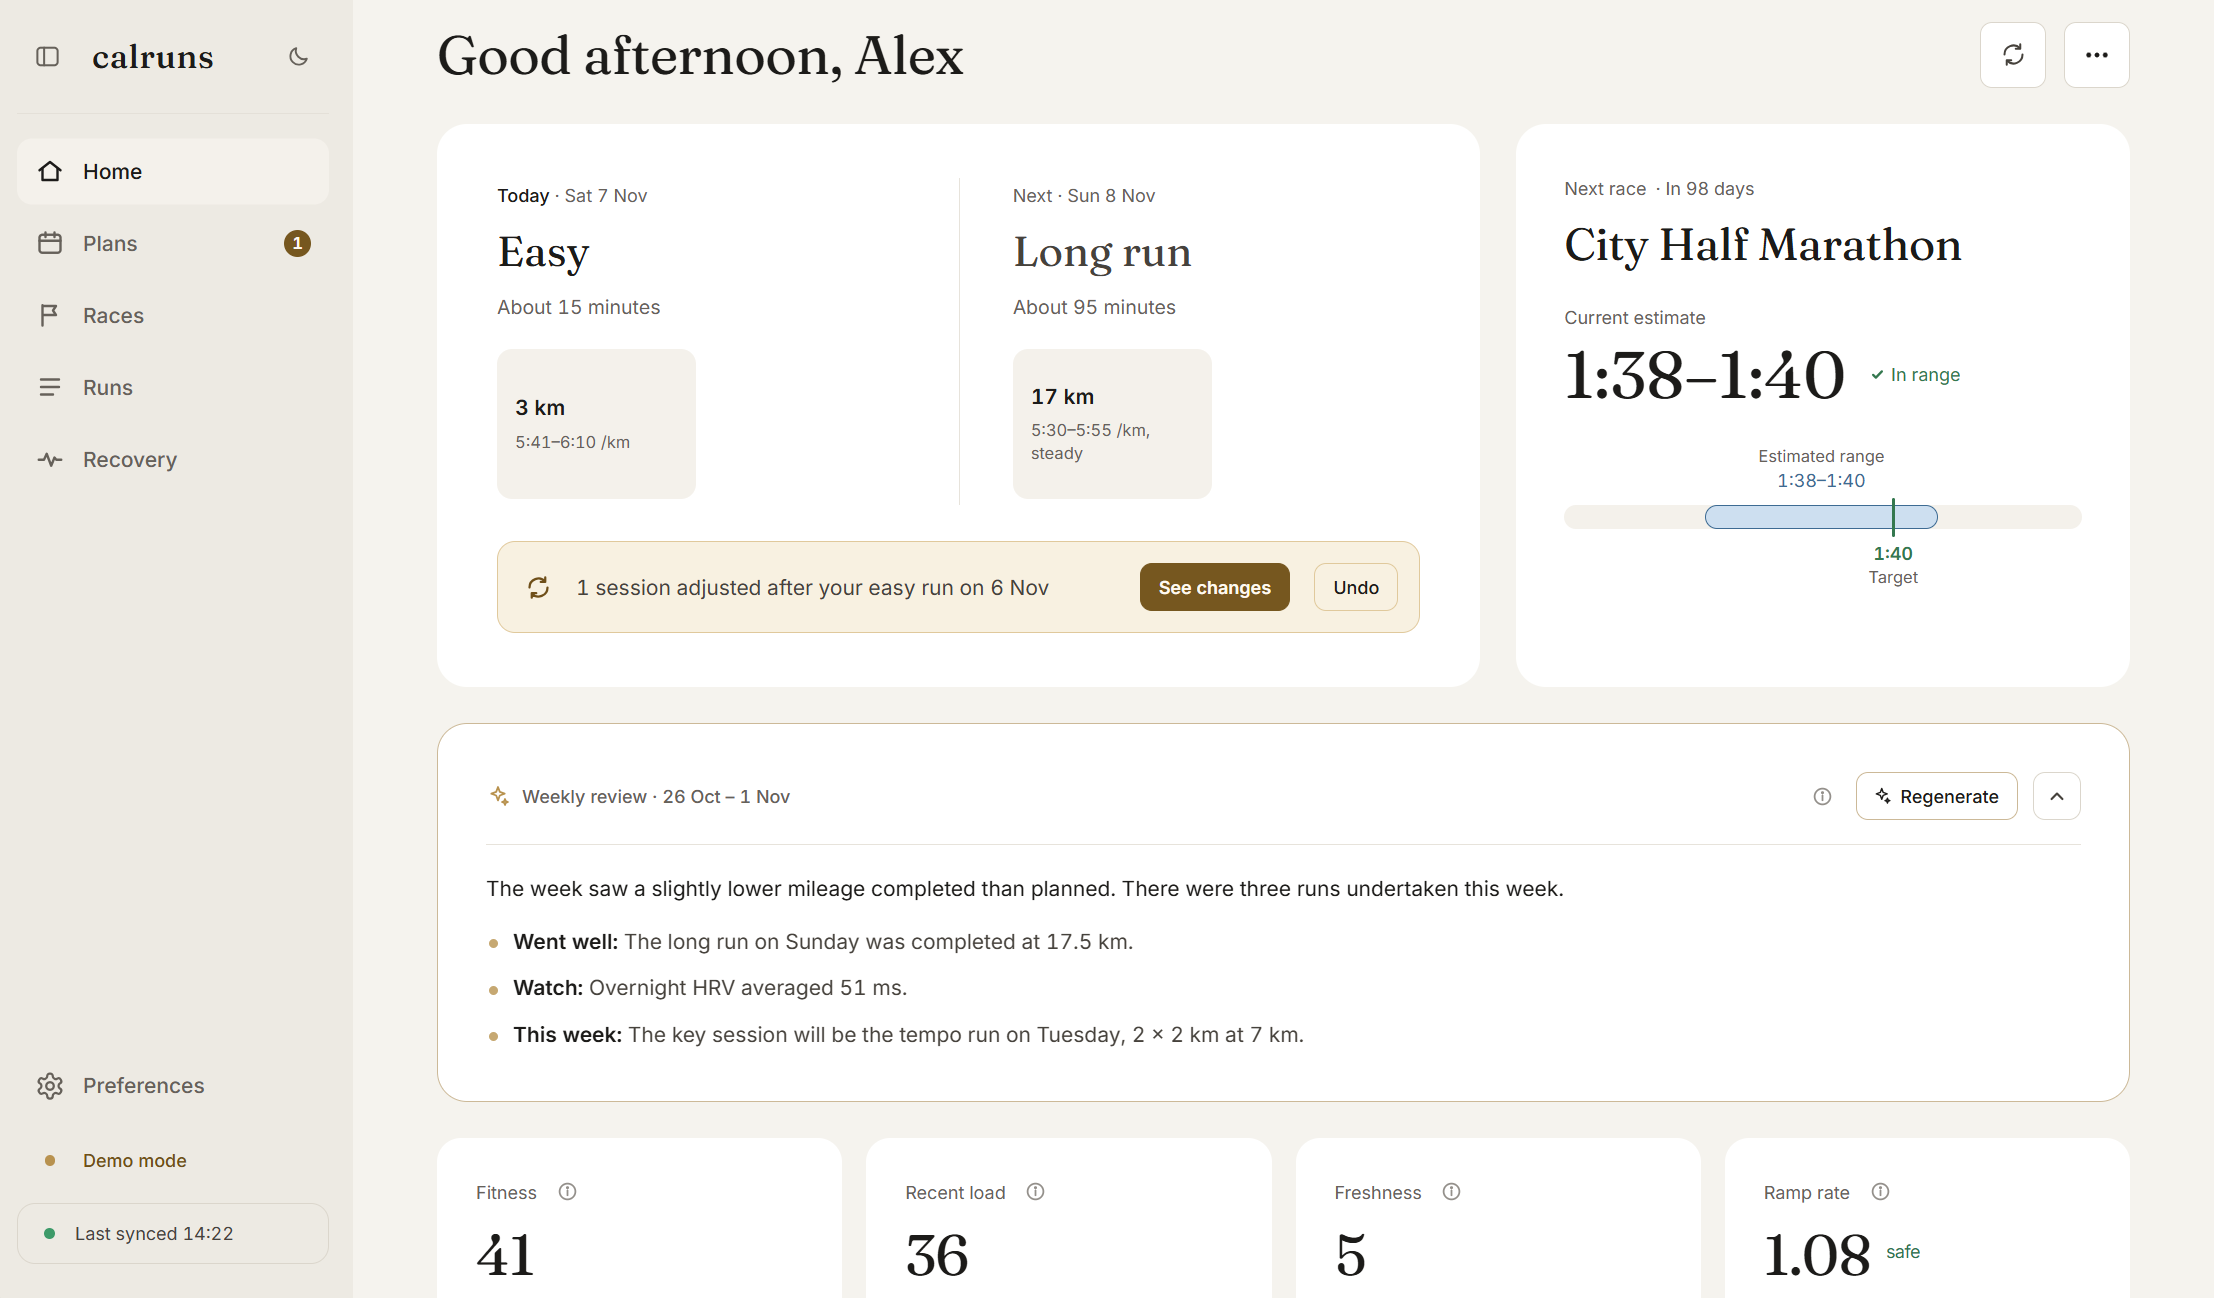
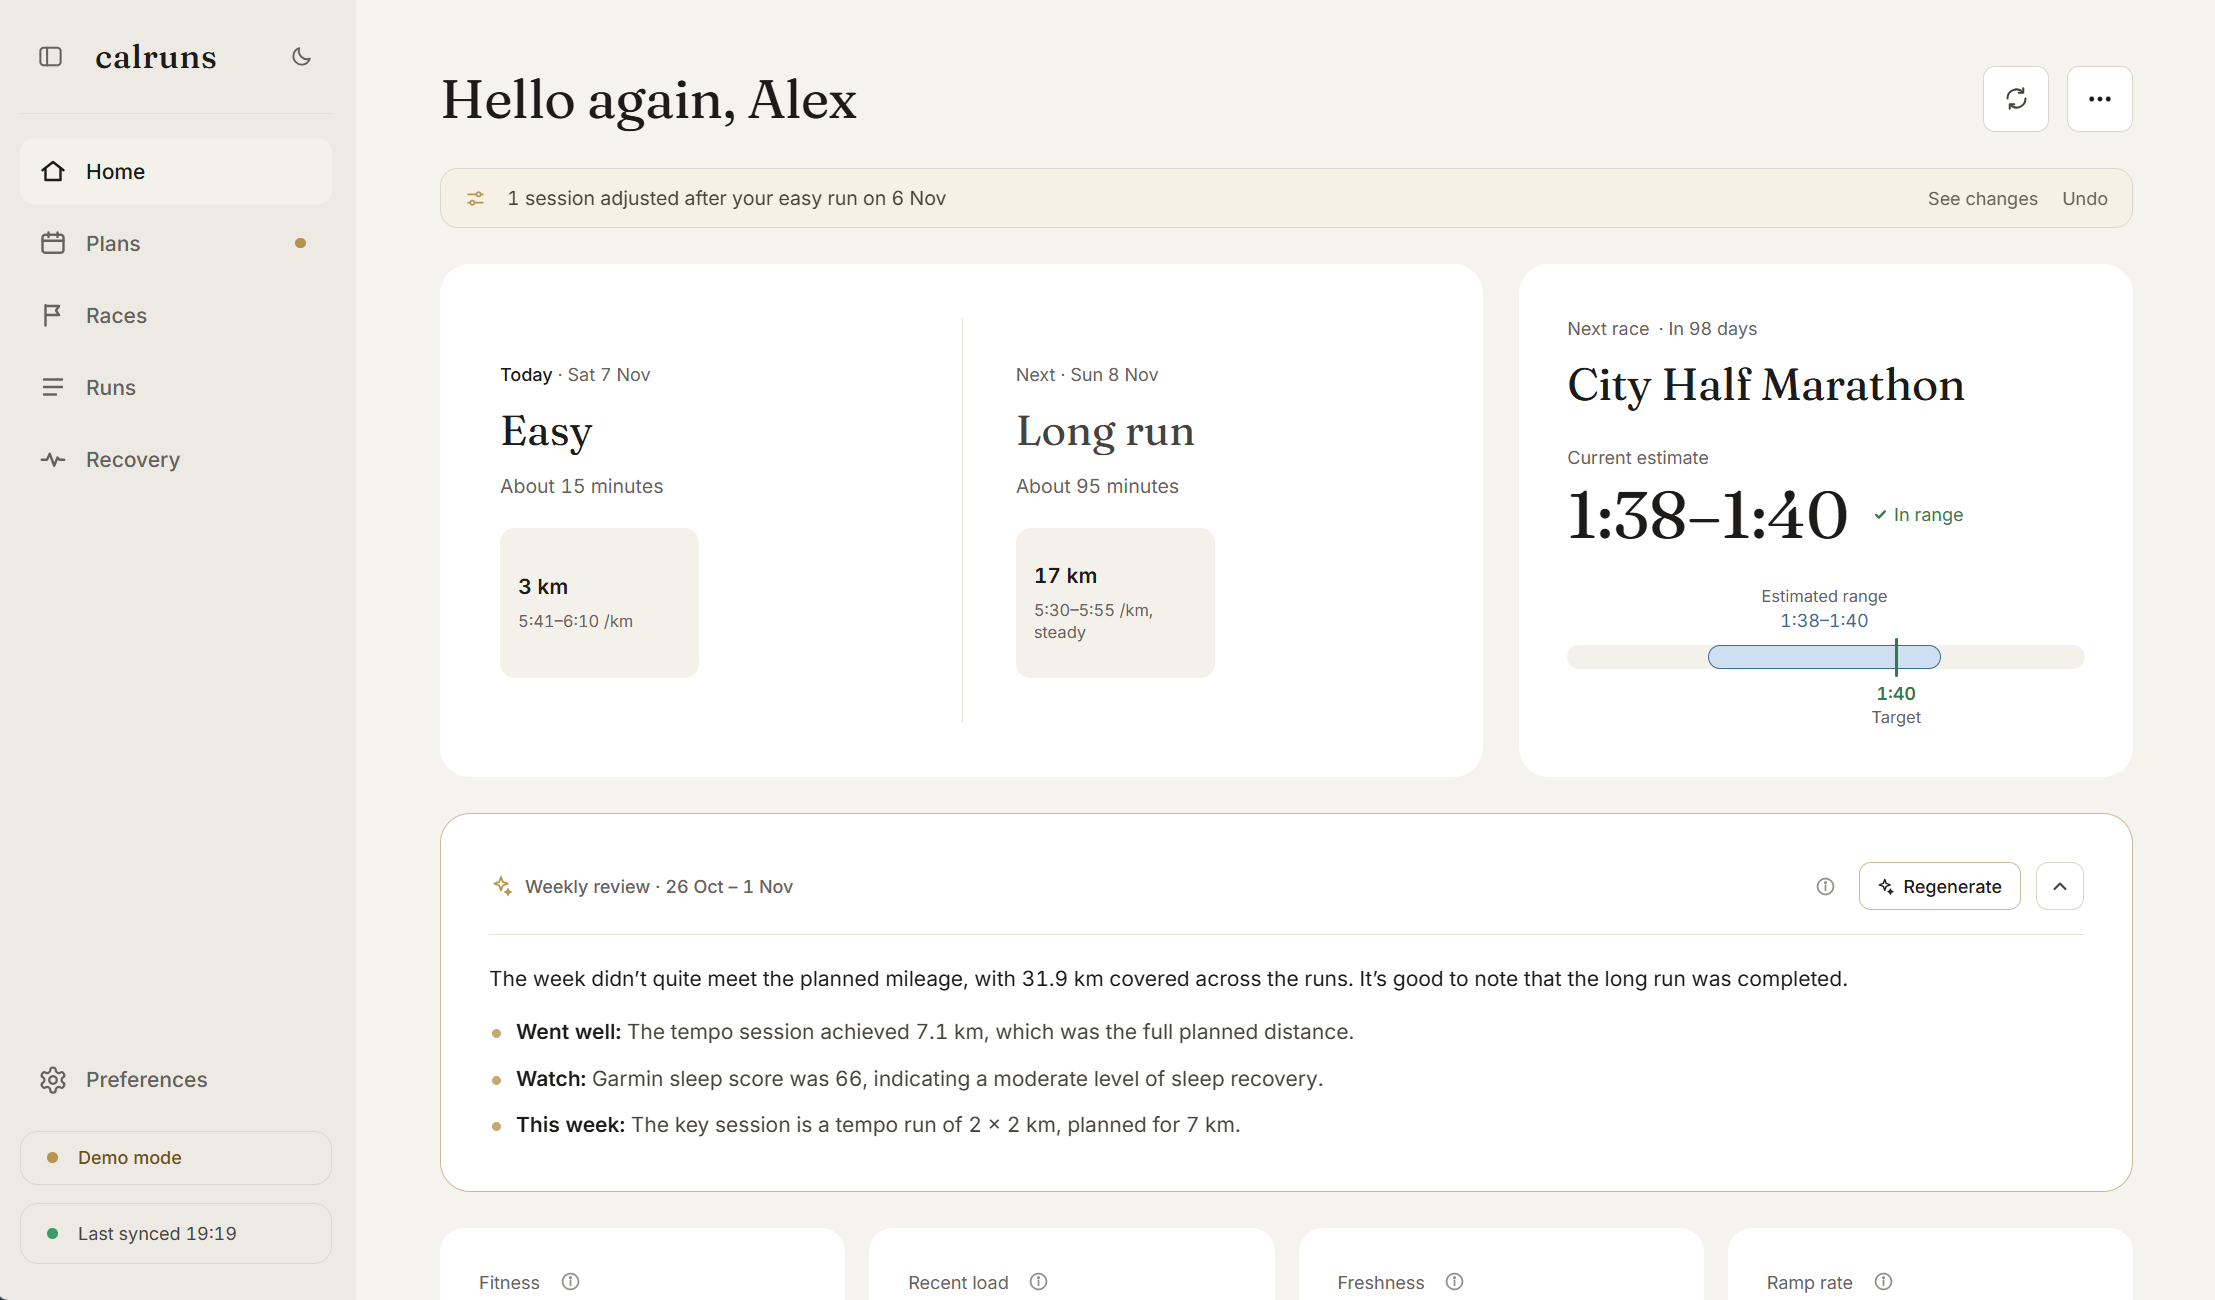
Changed tags settings

diff --git a/_layouts/default.html b/_layouts/default.html
@@ -85,5 +85,54 @@
     }
   });
 </script>
+
+<script>
+  document.querySelectorAll(".post-content .highlight").forEach((block) => {
+    const pre = block.querySelector("pre");
+
+    if (!pre) return;
+
+    const button = document.createElement("button");
+    button.type = "button";
+    button.className = "copy-code";
+    button.setAttribute("aria-label", "Copy code");
+    button.title = "Copy code";
+
+    const copyIcon = `
+      <svg viewBox="0 0 24 24" aria-hidden="true">
+        <rect x="8" y="8" width="11" height="11" rx="2"></rect>
+        <path d="M16 8V6a2 2 0 0 0-2-2H6a2 2 0 0 0-2 2v8a2 2 0 0 0 2 2h2"></path>
+      </svg>
+    `;
+
+    const checkIcon = `
+      <svg viewBox="0 0 24 24" aria-hidden="true">
+        <path d="M5 12.5l4 4L19 7"></path>
+      </svg>
+    `;
+
+    button.innerHTML = copyIcon;
+    block.appendChild(button);
+
+    button.addEventListener("click", async () => {
+      try {
+        await navigator.clipboard.writeText(pre.innerText);
+
+        button.innerHTML = checkIcon;
+        button.setAttribute("aria-label", "Code copied");
+        button.title = "Copied";
+
+        setTimeout(() => {
+          button.innerHTML = copyIcon;
+          button.setAttribute("aria-label", "Copy code");
+          button.title = "Copy code";
+        }, 1500);
+      } catch {
+        button.title = "Couldn't copy";
+      }
+    });
+  });
+</script>
+
 </body>
 </html>

diff --git a/assets/css/main.css b/assets/css/main.css
@@ -220,6 +220,7 @@ a:hover {
 /* Code */
 
 .post-content .highlight {
+  position: relative;
   margin: 32px 0;
   overflow: hidden;
   background: #f5f5f4;
@@ -256,6 +257,61 @@ a:hover {
   background: #f1f1f0;
   border-radius: 4px;
   font-size: 0.875em;
+}
+
+/* Copy code button */
+
+.copy-code {
+  position: absolute;
+  top: 10px;
+  right: 10px;
+
+  display: flex;
+  align-items: center;
+  justify-content: center;
+
+  width: 28px;
+  height: 28px;
+  padding: 0;
+
+  color: #969696;
+  background: rgba(245, 245, 244, 0.92);
+  border: 0;
+  border-radius: 5px;
+
+  cursor: pointer;
+  opacity: 0;
+
+  transition:
+    opacity 120ms ease,
+    color 120ms ease,
+    background-color 120ms ease;
+}
+
+.copy-code svg {
+  width: 15px;
+  height: 15px;
+  fill: none;
+  stroke: currentColor;
+  stroke-width: 1.5;
+  stroke-linecap: round;
+  stroke-linejoin: round;
+}
+
+.post-content .highlight:hover .copy-code,
+.copy-code:focus-visible {
+  opacity: 1;
+}
+
+.copy-code:hover {
+  color: var(--text);
+  background: #eeeeec;
+}
+
+@media (max-width: 640px) {
+  .copy-code {
+    opacity: 1;
+  }
 }
 
 /* Images */

diff --git a/_posts/2026-11-06-calruns-design-system.md b/_posts/2026-11-06-calruns-design-system.md
@@ -8,6 +8,11 @@ social_image: "/assets/images/design-system/calruns-homepage.png"
 ---
 calruns is a running app I built for myself with Claude as a personal project. It uses my running and recovery data from Garmin to assess my fitness and build training plans around upcoming races. It pulls my data from Garmin, but all of the analysis and ai coaching happens locally on my device, rather than being sent to a cloud ai provider.
 
+```python
+def analyse_activity(activity):
+    return activity["distance"]
+```
+
 I’ll share more about how it works in the future, but I wanted to start with the design. I had a very specific vision for how I wanted the app to look and wanted to try and avoid the usual ai design clichés.
 
 <figure>
